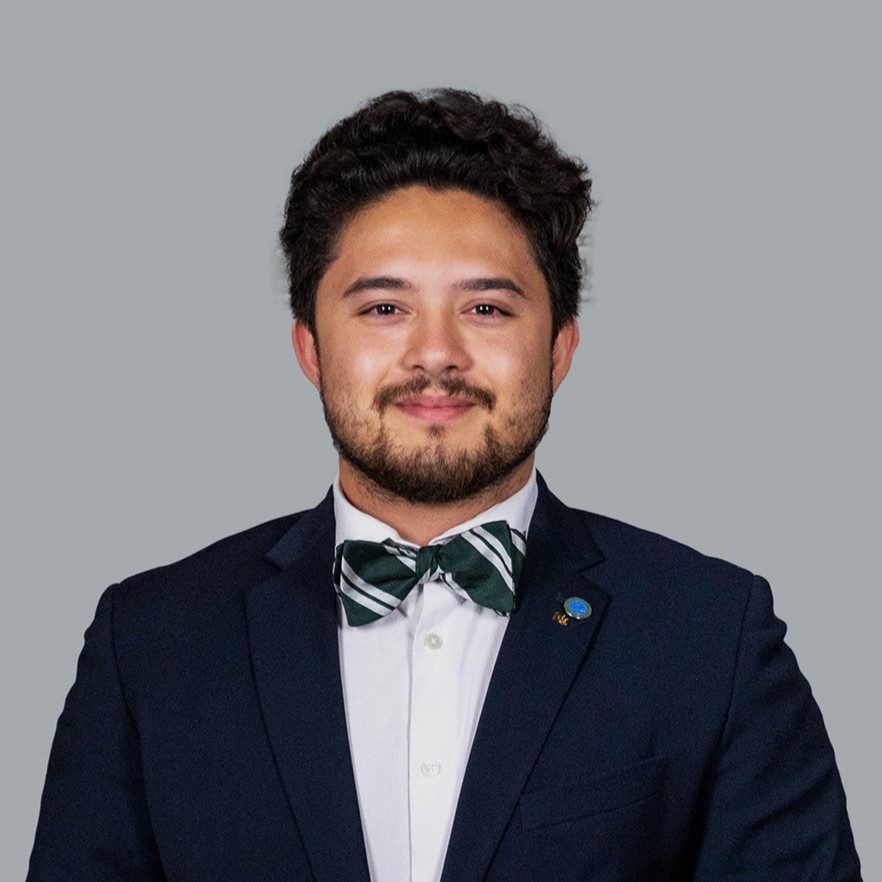
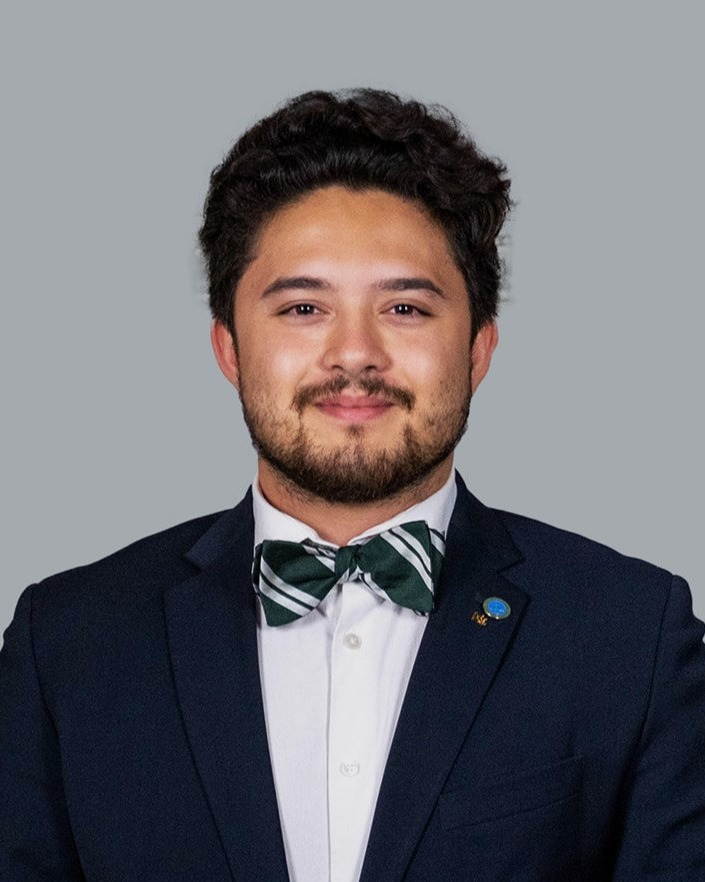
YAY

diff --git a/docs/index.html b/docs/index.html
@@ -335,7 +335,7 @@ ul.task-list li input[type="checkbox"] {
     </div>
   </div>
   <figure class="jrs-portrait figure">
-    <img src="images/alamo.jpg" alt="Jacob R. Smith at the Alamo" class="figure-img">
+    <img src="images/aier.jpg" alt="Jacob R. Smith" class="figure-img">
   </figure>
 </header>
 